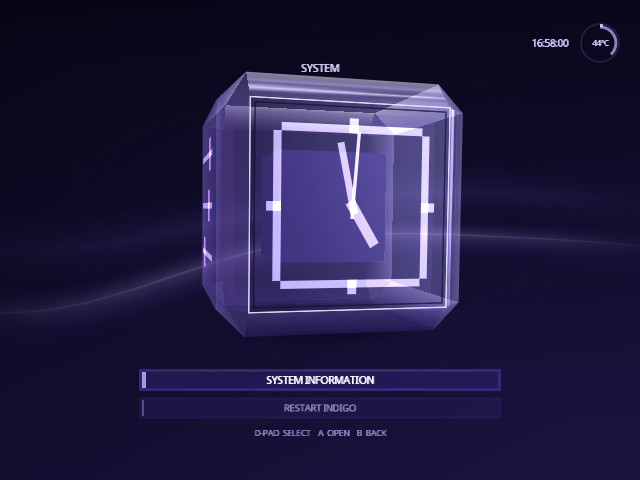
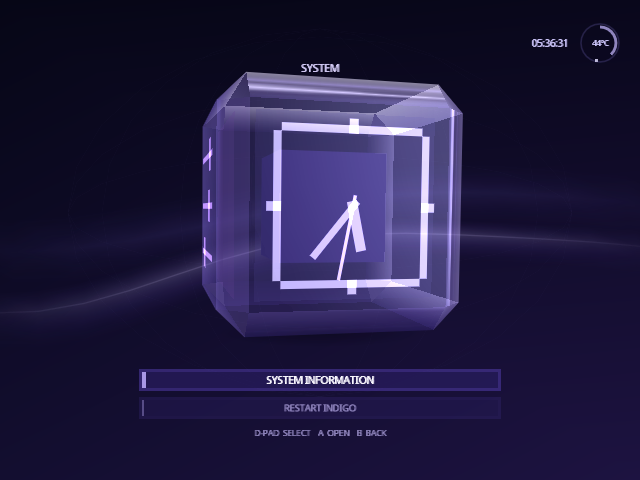
Release v1.14.1
Public-Release-Metadata: {"allow":["192.168.1.32","3.9.46.178","4.294.967.296","emukidid@gmail.com","extrems@extremscorner.org","hsn@sendmail.cz","jens.hauke@4k2.de","lasse.collin@tukaani.org","segher@kernel.crashing.org","tehpola@gmail.com"],"baseline":"","github":"spencercnorton/indigo","include":[".github/CODEOWNERS",".github/FUNDING.yml",".github/ISSUE_TEMPLATE/",".github/PULL_REQUEST_TEMPLATE.md",".gitignore","CHANGELOG.md","CODE_OF_CONDUCT.md","CONTRIBUTING.md","LICENSE","Makefile","NOTICE","README.md","SECURITY.md","SUPPORT.md","buildtools/SWISS_FILE_DESCRIPTIONS.txt","buildtools/check_whitespace.sh","buildtools/dol2gci.cpp","buildtools/dol2ipl.py","buildtools/sd_package.sh","buildtools/ui/poster_pack.py","cube/PowerPC.h","cube/asm.h","cube/linker-script/","cube/packer/","cube/patches/","cube/reservedarea.h","cube/reservedarea.ld","cube/swiss/Makefile","cube/swiss/include/","cube/swiss/source/","docs/SETTINGS.md","docs/examples/","docs/screenshots/","pc/","wii/"],"pinned":{"cube/linker-script/ogc.ld":"sha256:c2e8d217d8f8edd03e1605b7749344afe3849a1fc5f4cb3d24484dd1dceb4a0f","cube/packer/source/link.ld":"sha256:9370d339794e94cddbabcb905c13ea8db535efcce31d17600350b9489434000c","cube/patches/base/base.ld":"sha256:f50568b7efb501ea58569b42de230c6113f568ca06442950471bbdee1736d1c2","cube/patches/base/common.ld":"sha256:35f27cc406dce84ff3c95bbc97a6cbc4a370eda22a27efb4f84aadc80a2f8d2d","cube/patches/base/dolphin/os.ld":"sha256:6c78148ddbc0371cfeec31fe19fa43cc5064ff9b98a5b675
[…]

diff --git a/cube/swiss/source/gui/indigo_background.c b/cube/swiss/source/gui/indigo_background.c
@@ -1517,46 +1517,6 @@ static void drawSemanticFaceMotifs(float seconds, bool animated,
 		GX_LO_CLEAR);
 }
 
-static void drawFaceFrame(const cubeRasterTransform_t *raster, guVector n,
-		float inset, float front, GXColor color)
-{
-	static const float offsets[4] = {-1.1f, -0.35f, 0.35f, 1.1f};
-	/* Two body axes across face n. The band is symmetric, so the corner
-	 * winding this gives each face does not matter. */
-	guVector u = {fabsf(n.x) > 0.5f ? 0.0f : 1.0f, 0.0f, fabsf(n.x) > 0.5f ? 1.0f : 0.0f};
-	guVector v = {0.0f, fabsf(n.y) > 0.5f ? 0.0f : 1.0f, fabsf(n.y) > 0.5f ? 1.0f : 0.0f};
-	guVector eyes[4];
-	indigoPoint_t points[4], joins[4];
-	Mtx identity;
-	for(int i = 0; i < 4; i++) {
-		float su = i == 0 || i == 3 ? -inset : inset, sv = i < 2 ? -inset : inset;
-		if(!projectRailPoint(raster, n.x * front + u.x * su + v.x * sv,
-			n.y * front + u.y * su + v.y * sv, n.z * front + u.z * su + v.z * sv,
-			&eyes[i], &points[i])) return;
-	}
-	for(int i = 0; i < 4; i++) {
-		if(!railJoin(points[(i + 3) % 4], points[i], points[(i + 1) % 4],
-			&joins[i])) return;
-	}
-	guMtxIdentity(identity);
-	GX_LoadPosMtxImm(identity, GX_PNMTX0);
-	GX_Begin(GX_QUADS, GX_VTXFMT0, 48);
-	for(int edge = 0; edge < 4; edge++) {
-		int next = (edge + 1) % 4;
-		for(int band = 0; band < 3; band++) {
-			GXColor a = color, b = color;
-			if(band == 0) a.a = 0;
-			if(band == 2) b.a = 0;
-			putProjectedRailVertex(raster, eyes[edge], joins[edge], offsets[band], a);
-			putProjectedRailVertex(raster, eyes[next], joins[next], offsets[band], a);
-			putProjectedRailVertex(raster, eyes[next], joins[next], offsets[band + 1], b);
-			putProjectedRailVertex(raster, eyes[edge], joins[edge], offsets[band + 1], b);
-		}
-	}
-	GX_End();
-	GX_LoadPosMtxImm(raster->model, GX_PNMTX0);
-}
-
 static float glassSmoothstep(float edge0, float edge1, float x)
 {
 	float t = (x - edge0) / (edge1 - edge0);
@@ -1710,26 +1670,6 @@ static void drawGlassReflection(const cubeRasterTransform_t *raster,
 	}
 }
 
-/* The frame belongs to whichever face is turned toward the viewer, not to one
- * face of the body: it follows the selected face through every turn, up and
- * down included, fading out as one face turns away and in as the next
- * arrives. */
-static void drawFrontRailAccents(const cubeRasterTransform_t *raster,
-		float inset, float front, GXColor color)
-{
-	for(int face = 0; face < 6; face++) {
-		guVector axis = cubeFaceAxes[face], eye, n = cubeViewNormal(raster, axis);
-		indigoPoint_t screen;
-		if(!projectRailPoint(raster, axis.x * front, axis.y * front, axis.z * front,
-			&eye, &screen)) return;
-		float facing = -(n.x * eye.x + n.y * eye.y + n.z * eye.z) /
-			sqrtf(eye.x * eye.x + eye.y * eye.y + eye.z * eye.z);
-		GXColor faded = color;
-		faded.a = (u8)((float)color.a * glassSmoothstep(0.62f, 0.86f, facing));
-		if(faded.a > 0) drawFaceFrame(raster, axis, inset, front, faded);
-	}
-}
-
 static void drawCube(const uiSceneFrame_t *scene, float seconds, bool animated,
 		const uiClockFrame_t *clock, const indigoPadFrame_t *pad)
 {
@@ -1749,15 +1689,12 @@ static void drawCube(const uiSceneFrame_t *scene, float seconds, bool animated,
 		{25, 18, 70, 78}, {132, 108, 218, 84}, {196, 180, 255, 112},
 		{65, 48, 143, 72}, {235, 228, 255, 132}, {132, 108, 218, 84}
 	};
-	GXColor innerBoundary = {22, 14, 61, 184};
-	GXColor accent = {239, 233, 255, 226};
 	GXColor lit[6];
 	cubeRasterTransform_t raster;
 	cubeSurfaceQuad_t core[6], shell[6], strips[12], corners[8];
 	cubeOutline_t coreOutline, shellOutline;
 	const float outer = 1.0f;
 	const float inset = 0.78f;
-	const float front = 1.008f;
 
 	setupCubePipeline(scene, seconds, animated, &raster);
 	litCubeTints(&raster, coreColors, lit);
@@ -1826,16 +1763,7 @@ static void drawCube(const uiSceneFrame_t *scene, float seconds, bool animated,
 	GX_SetBlendMode(GX_BM_BLEND, GX_BL_SRCALPHA, GX_BL_INVSRCALPHA, GX_LO_CLEAR);
 	drawSemanticFaceMotifs(seconds, animated, clock, &raster);
 	drawLibraryController(&raster, seconds, animated, pad);
-
-	/* Pixel-width coverage replaces GX's hard subpixel line rasterization.
-	 * The front rail remains depth-tested and follows the same cube pose. */
 	GX_SetBlendMode(GX_BM_BLEND, GX_BL_SRCALPHA, GX_BL_INVSRCALPHA, GX_LO_CLEAR);
-	/* GX_LINES ignored face culling; the replacement coverage quads must
-	 * remain two-sided after the semantic motif pass restores back culling. */
-	GX_SetCullMode(GX_CULL_NONE);
-	drawFrontRailAccents(&raster, inset - 0.035f, front + 0.001f, innerBoundary);
-	drawFrontRailAccents(&raster, inset, front, accent);
-	GX_SetCullMode(GX_CULL_BACK);
 }
 
 void IndigoBackground_Draw(float seconds, bool backdropAnimated,

diff --git a/CHANGELOG.md b/CHANGELOG.md
@@ -3,6 +3,14 @@
 Versions follow [semantic versioning](https://semver.org/); each release is a
 tag on `main`.
 
+## v1.14.1 — Home
+
+- The white frame on the cube is gone. The white line and the dark line
+  inside it no longer outline the face you are on; the glass, its reflection
+  and each face's emblem are unchanged.
+- The README's Home animation and System screenshot are re-recorded without
+  it.
+
 ## v1.14.0 — pick from a list
 
 - A on a setting with four or more choices lists them all. That covers the
